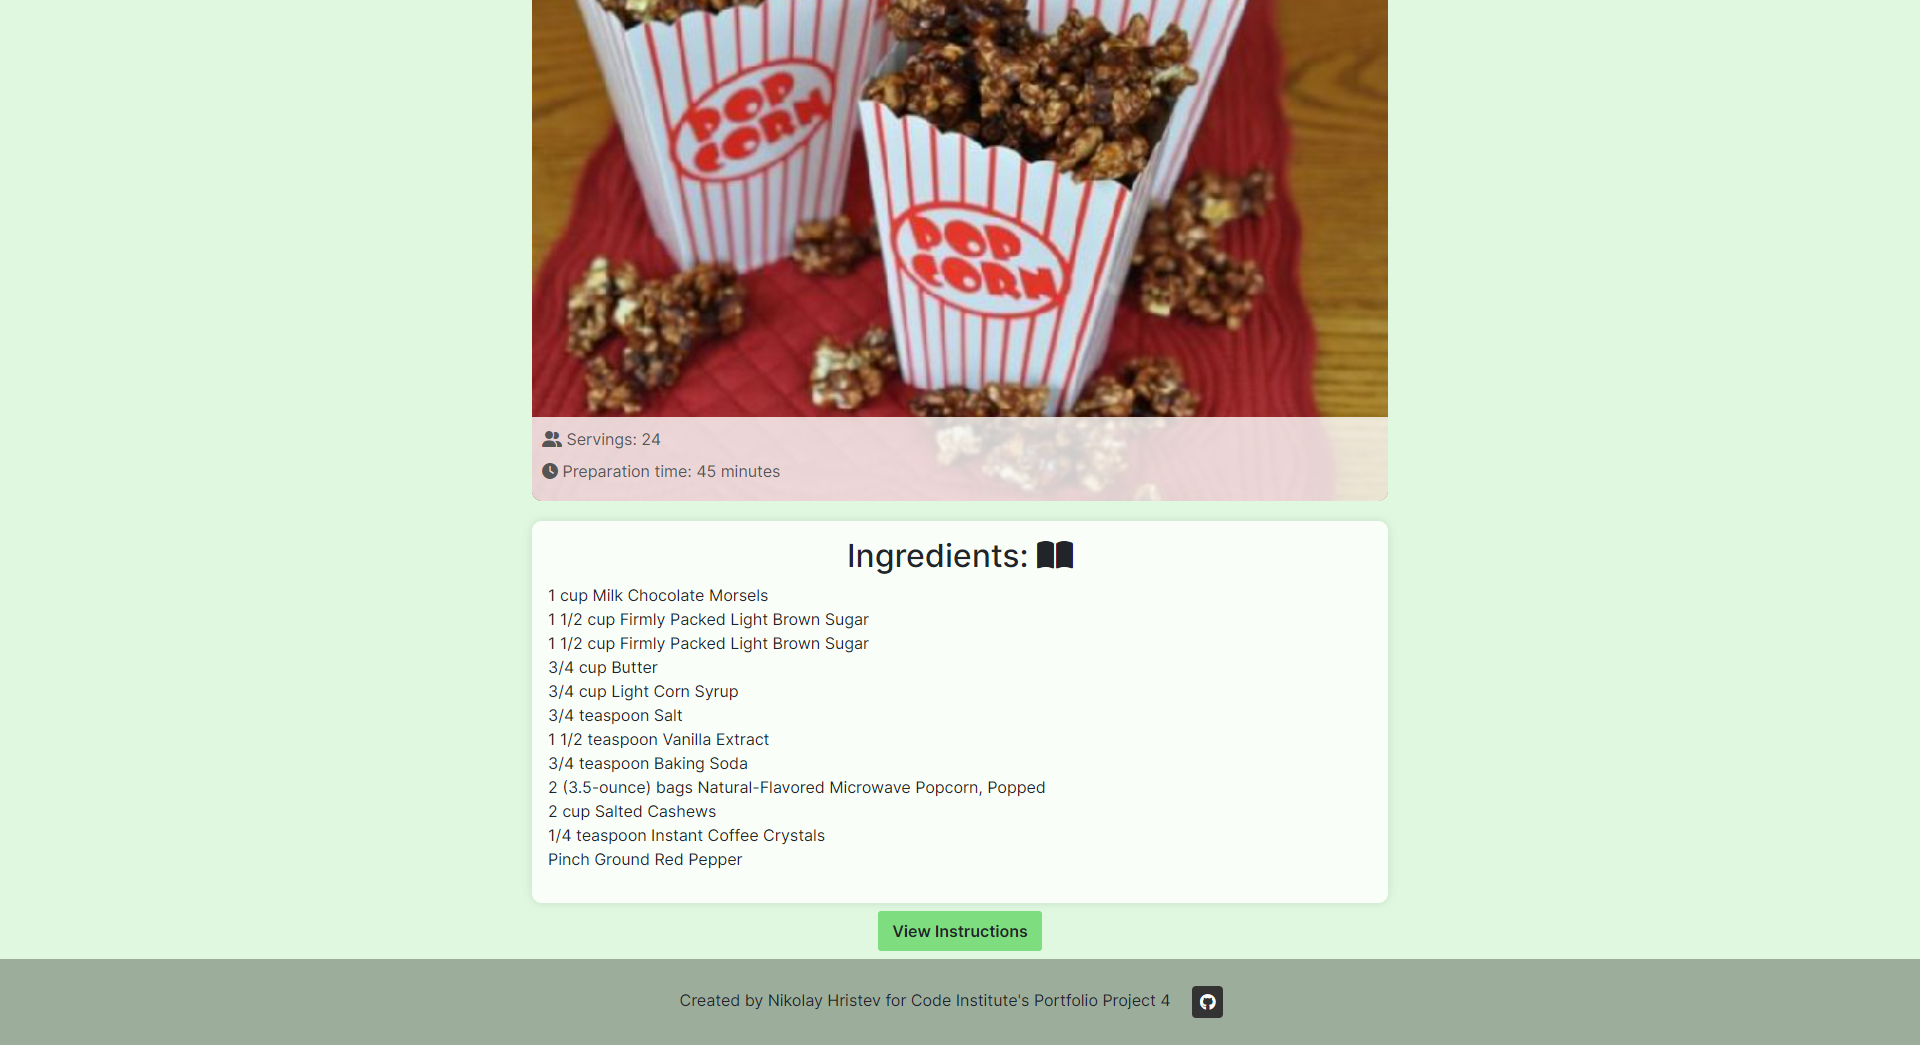
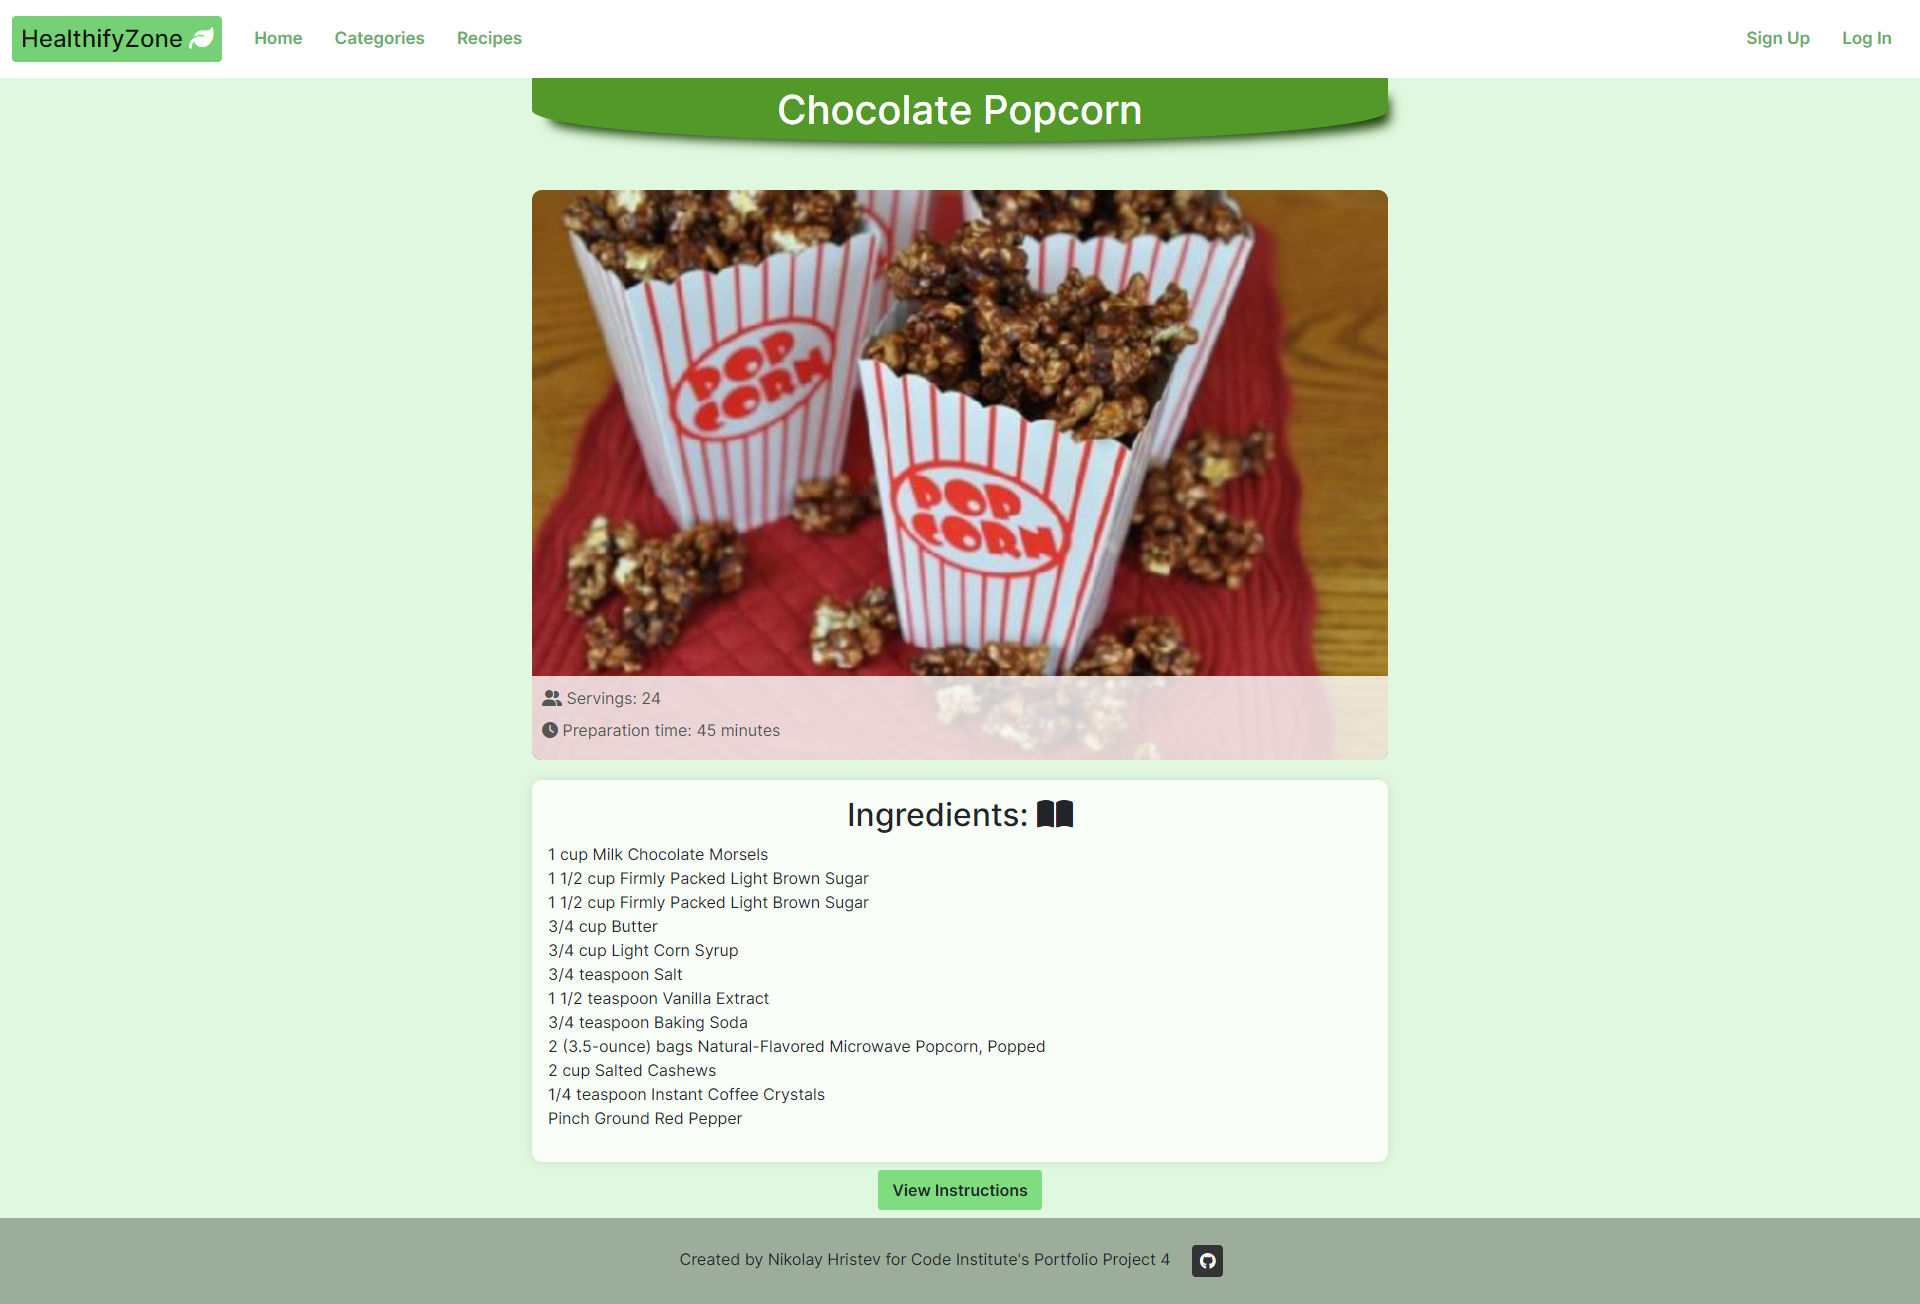
add all the recipe features to the README file

diff --git a/README.md b/README.md
@@ -269,3 +269,58 @@ The wireframes were created with [Balsamiq's Website](https://balsamiq.com/).
     - When the user clicks the "View Category" button they will be take to a page consisting of all the articles related to this category.
 
 ![View Category Button](https://github.com/devnickocodes/healthifyzone/blob/main/documentation/view_category_button.png)
+
+- **View Articles Related to a Category**
+
+    - On this page the user can see all articles related to the category that they have clicked on.
+
+![View Category Button](https://github.com/devnickocodes/healthifyzone/blob/main/documentation/articles_related_to_a_category.png)
+
+- **Recipe Search Page**
+
+    - On this page the user can search for recipes based on a keyword of their choosing.
+
+![View Category Button](https://github.com/devnickocodes/healthifyzone/blob/main/documentation/search_recipes_page.png)
+
+- **Recipe Results Page**
+
+    - On this page depending on what the user has searched for, nine recipes will be displayed that the user can choose from.
+
+![Recipe Results Page](https://github.com/devnickocodes/healthifyzone/blob/main/documentation/search_recipes_results_page.png)
+
+- **View Recipe Button**
+
+    - For each one of the recipes there will be a "View Recipe" button that when clicked the user will be taken to a page that will contain more information about the recipe.
+
+![View Recipe Button](https://github.com/devnickocodes/healthifyzone/blob/main/documentation/view_recipe_button.png)
+
+- **View Recipe Button**
+
+    - For each one of the recipes there will be a "View Recipe" button that when clicked the user will be taken to a page that will contain more information about the recipe.
+
+![View Recipe Button](https://github.com/devnickocodes/healthifyzone/blob/main/documentation/view_recipe_button.png)
+
+- **Recipe Card Page**
+
+    - Upon clicking on the "View Recipe" button the user will be taken to this page where they will find all the information about the recipe.
+
+![Recipe Card Page](https://github.com/devnickocodes/healthifyzone/blob/main/documentation/recipe_card_page.png)
+
+- **Recipe Prep Time and Servings**
+
+    - The first thing that the user will see is the feature image for the recipe as well as the preparation time and the servings size.
+
+![Recipe Card Page](https://github.com/devnickocodes/healthifyzone/blob/main/documentation/recipe_prep_time_servings_and_image.png)
+
+
+- **Recipe Ingredients**
+
+    - Followed by the ingredients necessary for this recipe.
+
+![Recipe Ingredients](https://github.com/devnickocodes/healthifyzone/blob/main/documentation/recipe_ingredients.png)
+
+- **Recipe Instructions**
+
+    - Finally the user will see a dropdown "View Instructions" button that when clicked they will be provided with the instructions and steps for the preparation of the recipe.
+
+![Recipe Instructions](https://github.com/devnickocodes/healthifyzone/blob/main/documentation/recipe_instructions.png)
